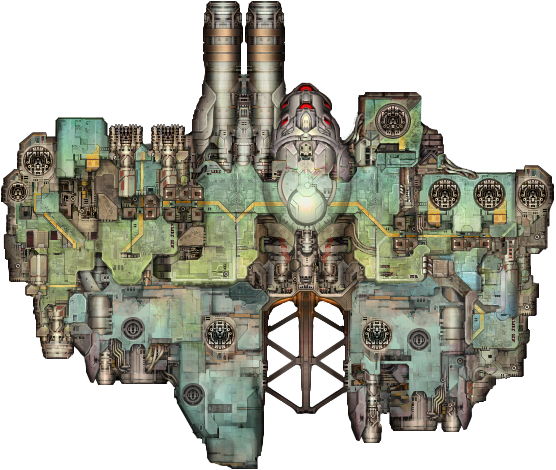
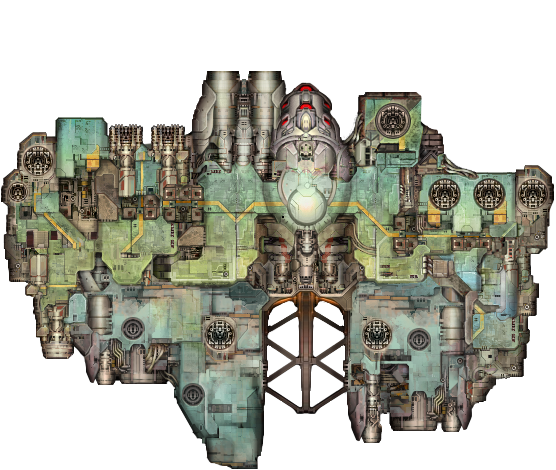
Added the Dawntide Boss's main gun, name tbd

Changed region(s): [[0.3669, 0.0, 0.5198, 0.1787]]

diff --git a/src/org/selkie/kol/impl/fleets/ManageDawnBoss.java b/src/org/selkie/kol/impl/fleets/ManageDawnBoss.java
@@ -26,7 +26,7 @@ public class ManageDawnBoss implements FleetEventListener {
 		}
 
 
-		if(fleet.getFlagship()==null || !fleet.getFlagship().getHullSpec().getBaseHullId().startsWith("zea_boss_taotie")) {
+		if(fleet.getFlagship()==null || !fleet.getFlagship().getHullSpec().getBaseHullId().startsWith("zea_boss_nian")) {
 	            
 			//remove the fleet if flag is dead
 			if(!fleet.getMembersWithFightersCopy().isEmpty()){
@@ -64,7 +64,7 @@ public class ManageDawnBoss implements FleetEventListener {
 	                
 	                //spawn the derelict object
 	                SectorEntityToken wreck = MagicCampaign.createDerelict(
-	                        "zea_boss_nian_Devourer",
+	                        "zea_boss_nian_Rending",
 	                        ShipRecoverySpecial.ShipCondition.WRECKED,
 	                        false,
 	                        -1,

diff --git a/src/org/selkie/kol/impl/fleets/SpawnDawnBoss.java b/src/org/selkie/kol/impl/fleets/SpawnDawnBoss.java
@@ -52,7 +52,7 @@ public class SpawnDawnBoss {
 		* @param transponderOn
 		* @return
 		*/
-		String variant = "zea_boss_nian_Devourer";
+		String variant = "zea_boss_nian_Rending";
 		CampaignFleetAPI dawnBossFleet = MagicCampaign.createFleetBuilder()
 		        .setFleetName("The Devourer")
 		        .setFleetFaction(PrepareAbyss.dawnID)
